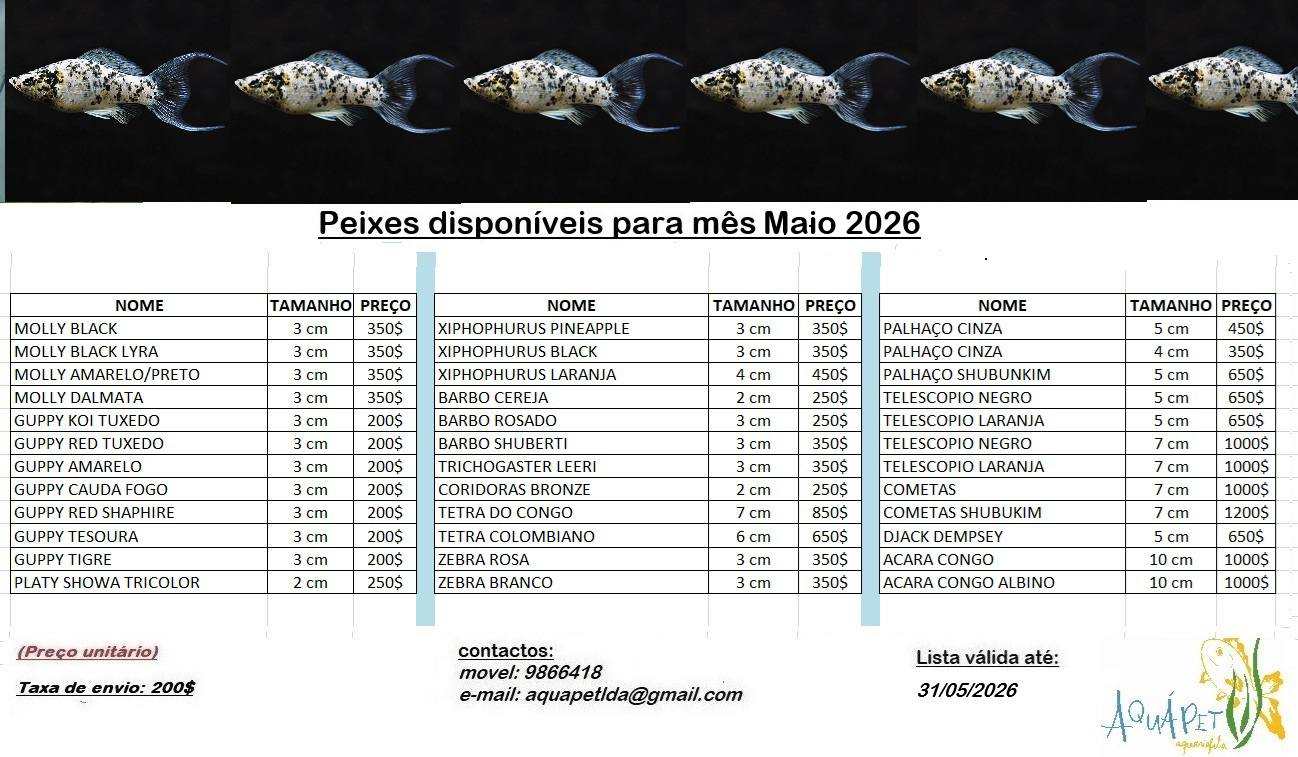
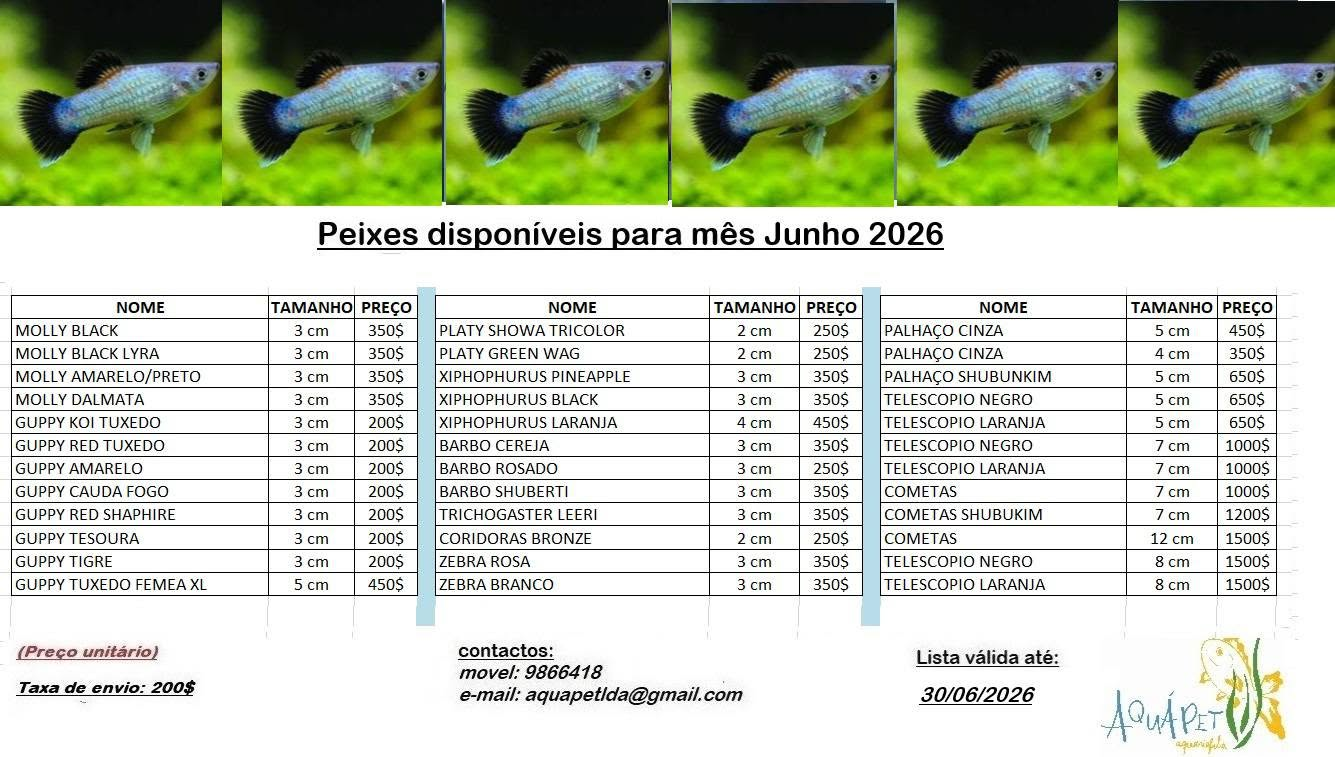
agora

diff --git a/Versao_1/aquapet.html b/Versao_1/aquapet.html
@@ -121,9 +121,9 @@
                     <img src="src/Imagem/Mes1.png" class="prod-image" alt="">
                     <h3 class="prod-title">Tartaruga de Orelha Vermelha</h3>
                     <span class="prod-description">Características principais:</span>
-                    <p>Vive em água doce</p>
-                    <p>Alimenta-se de plantas e insetos</p>
-                    <p>Muito popular como animal de estimação</p>
+                    <p>- Vive em água doce</p>
+                    <p>- Alimenta-se de plantas e insetos</p>
+                    <p>-Muito popular como animal de estimação</p>
                 </div>
 
                 <div class="prod">
@@ -134,9 +134,9 @@
                     <img src="src/Imagem/Mes2.png" class="prod-image" alt="">
                     <h3 class="prod-title">Peixe-dourado telescópio</h3>
                     <span class="prod-description">Características principais:</span>
-                    <p>Vive em aquários e lagos ornamentais</p>
-                    <p>Necessita de água limpa</p>
-                    <p>Peixe calmo e decorativo</p>
+                    <p>- Vive em aquários e lagos ornamentais</p>
+                    <p>- Necessita de água limpa</p>
+                    <p>- Peixe calmo e decorativo</p>
                 </div>
 
                 <div class="prod">
@@ -147,9 +147,9 @@
                     <img src="src/Imagem/Mes3.png" class="prod-image" alt="">
                     <h3 class="prod-title">Palhaço Shubunkin</h3>
                     <span class="prod-description">Características principais:</span>
-                    <p>Cores misturadas</p>
-                    <p>Peixe muito ativo</p>
-                    <p>Vive bem em aquários grandes</p>
+                    <p>- Cores misturadas</p>
+                    <p>- Peixe muito ativo</p>
+                    <p>- Vive bem em aquários grandes</p>
                 </div>
 
                 <div class="prod">
@@ -160,9 +160,9 @@
                     <img src="src/Imagem/Mes4.png" class="prod-image" alt="">
                     <h3 class="prod-title">Zebra Danio</h3>
                     <span class="prod-description">Características principais:</span>
-                    <p>Peixe pequeno e ativo</p>
-                    <p>Vive melhor em grupo</p>
-                    <p>Ideal para aquários comunitários</p>
+                    <p>- Peixe pequeno e ativo</p>
+                    <p>- Vive melhor em grupo</p>
+                    <p>- Ideal para aquários comunitários</p>
                 </div>
 
                 <div class="prod">
@@ -173,9 +173,9 @@
                     <img src="src/Imagem/Mes5.png" class="prod-image" alt="">
                     <h3 class="prod-title">Barbo Cereja</h3>
                     <span class="prod-description">Características principais:</span>
-                    <p>Vive melhor em grupos de pelo menos 5 ou 6 peixes</p>
-                    <p>Alimentação ração para peixes tropicais e de pequenos insetos</p>
-                    <p>Prefere aquários com plantas e esconderijos</p>
+                    <p>- Vive melhor em grupos de pelo menos 5 ou 6 peixes</p>
+                    <p>- Alimentação ração para peixes tropicais e de pequenos insetos</p>
+                    <p>- Prefere aquários com plantas e esconderijos</p>
                 </div>
 
                 <div class="prod">
@@ -186,9 +186,9 @@
                     <img src="src/Imagem/Mes6.png" class="prod-image" alt="">
                     <h3 class="prod-title">Congo Tetra</h3>
                     <span class="prod-description">Características principais:</span>
-                    <p>Prefere aquários com plantas, espaço para nadar e iluminação moderada</p>
-                    <p>Deve ser mantido em cardumes (6 ou mais)</p>
-                    <p>Aceita alimentação variada</p>
+                    <p>- Prefere aquários com plantas, espaço para nadar e iluminação moderada</p>
+                    <p>- Deve ser mantido em cardumes (6 ou mais)</p>
+                    <p>- Aceita alimentação variada</p>
                 </div>
 
                 <div class="prod">
@@ -199,9 +199,9 @@
                     <img src="src/Imagem/Mes7.png" class="prod-image" alt="">
                     <h3 class="prod-title">Corydora Bronze</h3>
                     <span class="prod-description">Características principais:</span>
-                    <p>Vive no fundo do aquário</p>
-                    <p>Deve ser mantido em grupos de pelo menos 5</p>
-                    <p>Alimenta-se de pastilhas de fundo, ração afundante, pequenos vermes e alimentos congelados</p>
+                    <p>- Vive no fundo do aquário</p>
+                    <p>- Deve ser mantido em grupos de pelo menos 5</p>
+                    <p>- Alimenta-se de pastilhas de fundo, ração afundante, pequenos vermes e alimentos congelados</p>
                 </div>
 
                 <div class="prod">
@@ -212,9 +212,9 @@
                     <img src="src/Imagem/Mes8.png" class="prod-image" alt="">
                     <h3 class="prod-title">Platy Mickey Mouse</h3>
                     <span class="prod-description">Características principais:</span>
-                    <p>Ideal para aquários comunitários, Muito sociável</p>
-                    <p>Fácil de cuidar, recomendado para iniciantes</p>
-                    <p>Aceita alimentação variada</p>
+                    <p>- Ideal para aquários comunitários, Muito sociável</p>
+                    <p>- Fácil de cuidar, recomendado para iniciantes</p>
+                    <p>- Aceita alimentação variada</p>
                 </div>
 
                 <div class="prod">
@@ -225,9 +225,9 @@
                     <img src="src/Imagem/Mes9.png" class="prod-image" alt="">
                     <h3 class="prod-title">Xiphophorus hellerii</h3>
                     <span class="prod-description">Características principais:</span>
-                    <p>Muito resistente e fácil de cuidar</p>
-                    <p>Vive bem em aquários comunitários</p>
-                    <p>Aceita alimentação variada</p>
+                    <p>- Muito resistente e fácil de cuidar</p>
+                    <p>- Vive bem em aquários comunitários</p>
+                    <p>- Aceita alimentação variada</p>
                 </div>
 
                 <div class="prod">
@@ -238,9 +238,9 @@
                     <img src="src/Imagem/Mes10.png" class="prod-image" alt="">
                     <h3 class="prod-title">Molly Dálmata</h3>
                     <span class="prod-description">Características principais:</span>
-                    <p>Vive bem em aquários comunitários</p>
-                    <p>Fácil de cuidar, ideal para iniciantes</p>
-                    <p>Aceita alimentação variada</p>
+                    <p>- Vive bem em aquários comunitários</p>
+                    <p>- Fácil de cuidar, ideal para iniciantes</p>
+                    <p>- Aceita alimentação variada</p>
                 </div>
 
                 <div class="prod">
@@ -251,9 +251,9 @@
                     <img src="src/Imagem/Mes11.png" class="prod-image" alt="">
                     <h3 class="prod-title">Molly Preto Lyra</h3>
                     <span class="prod-description">Características principais:</span>
-                    <p>Muito ativo e resistente</p>
-                    <p>Ideal para aquários comunitários</p>
-                    <p>Aceita alimentação variada</p>
+                    <p>- Muito ativo e resistente</p>
+                    <p>- Ideal para aquários comunitários</p>
+                    <p>- Aceita alimentação variada</p>
                 </div>
             </div>
 
